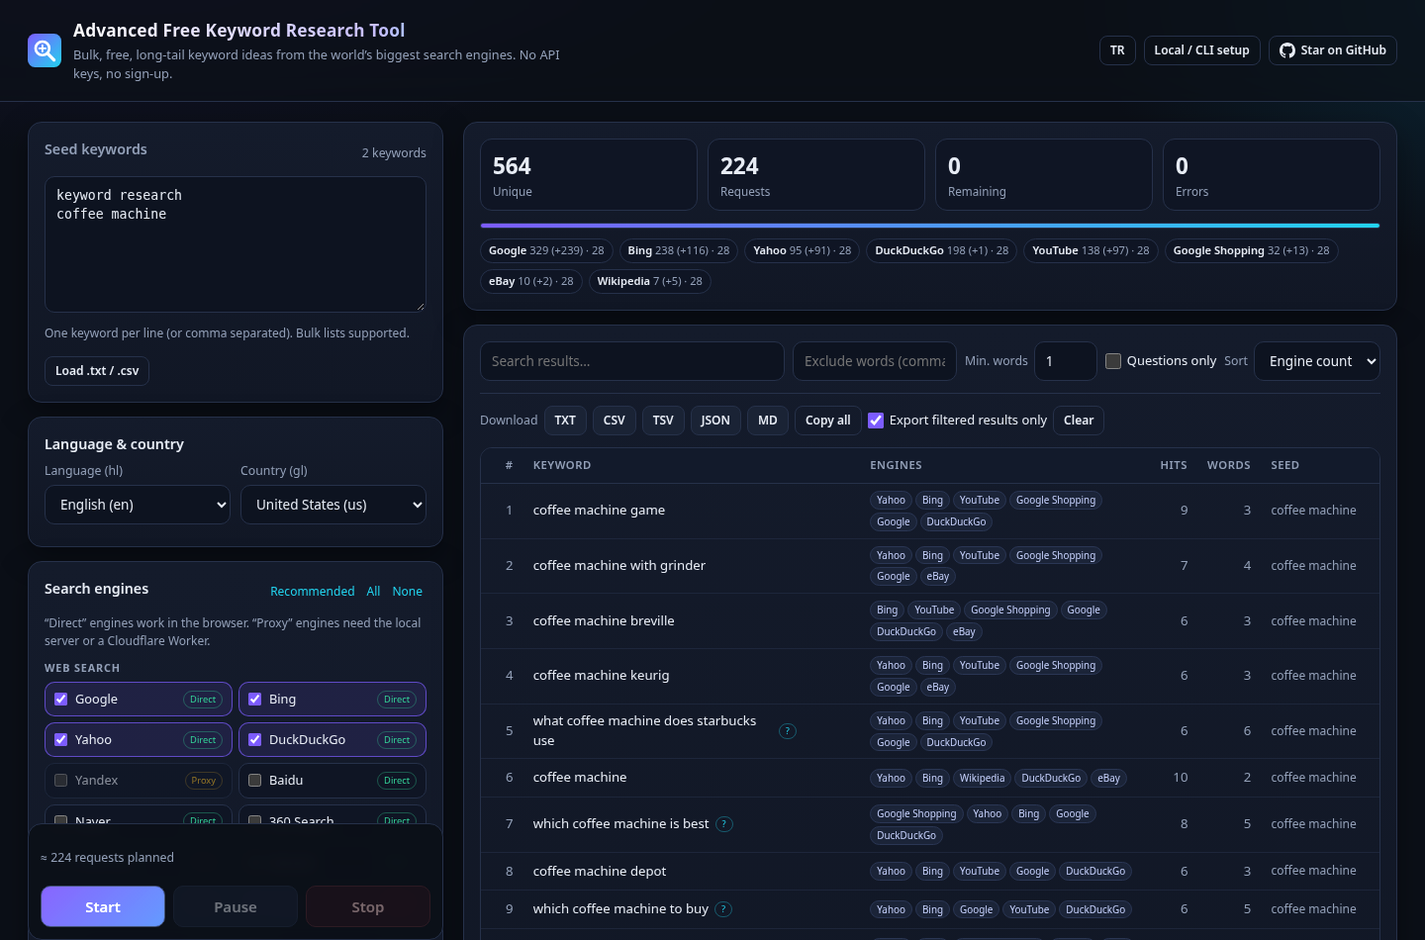
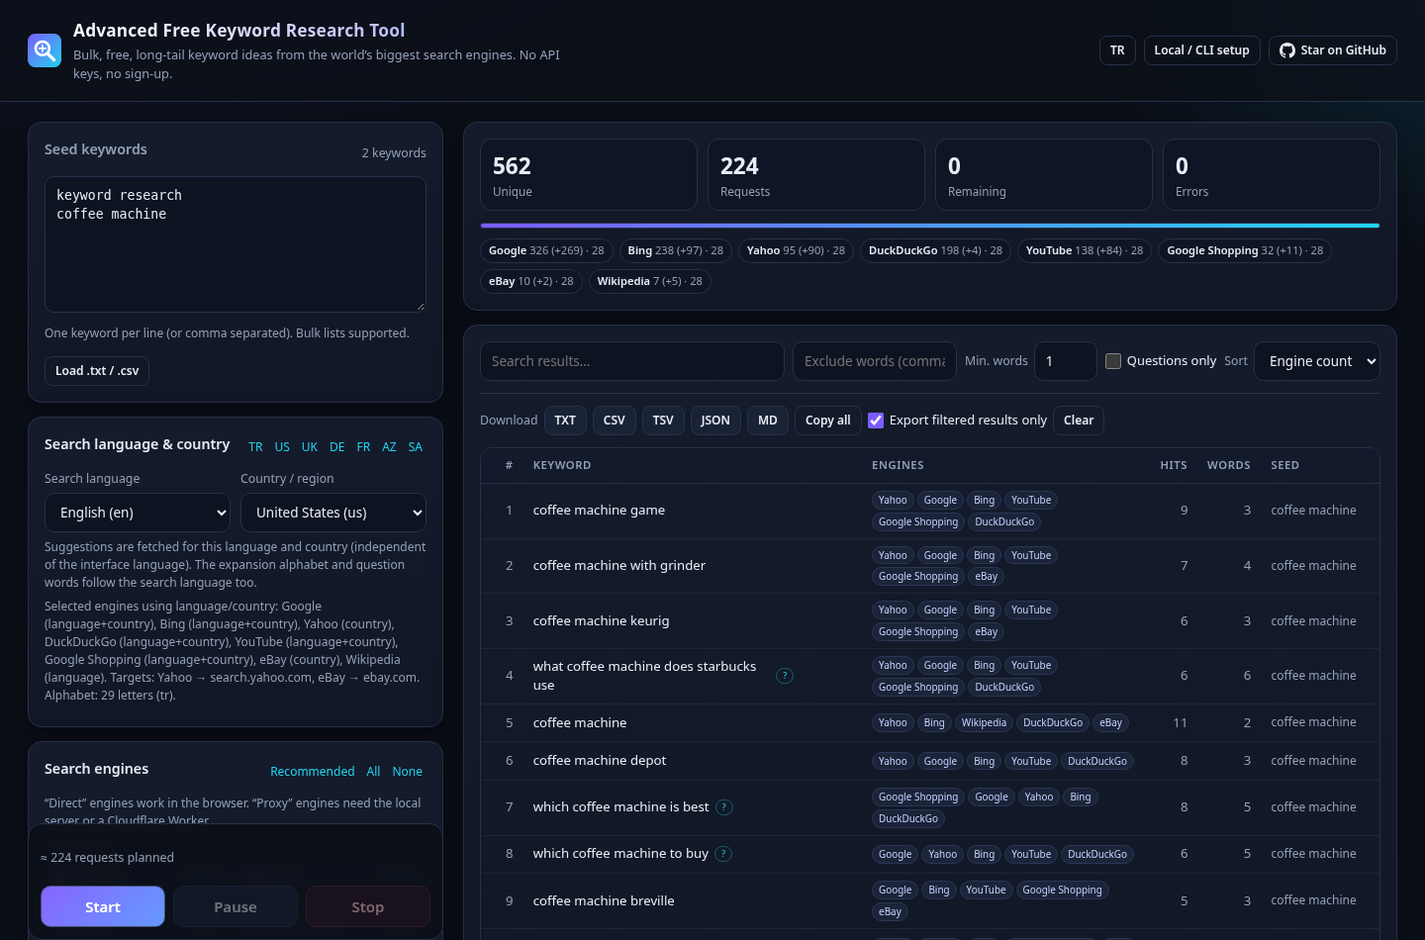
docs: language & country guide, security notes, audit report, refreshed screenshots

diff --git a/docs/AUDIT.md b/docs/AUDIT.md
@@ -1,0 +1,68 @@
+# Pre-release audit — 2026-10-09
+
+Full review of the code, UX, docs, endpoints, proxy security and tests before the first public release.
+Every item below was fixed in this release unless marked *known limitation*.
+
+## Language & country
+
+| # | Finding | Fix |
+|---|---|---|
+| L1 | CLI defaulted to `en`/`us`; the target audience is Turkey | Defaults are now `tr`/`tr` everywhere (`DEFAULT_LOCALE` in `engines.js`): web app, CLI, proxy, GitHub Action |
+| L2 | UI said "Dil (hl) / Ülke (gl)" — easy to confuse with the interface language; no explanation which engines use it | Card renamed *Arama dili ve ülkesi*, explanatory hint, quick presets (TR/US/UK/DE/FR/AZ/SA), live line showing which selected engines use language/country, which ignore it, and concrete targets (`Amazon → amazon.com.tr`, Yahoo host, Yandex `lr`, eBay site) |
+| L3 | Short lists (18 languages, 22 countries) | ~38 languages (incl. `pt-br`, `zh-cn`, `zh-tw`), ~60 countries; any valid code from a shared URL is accepted |
+| L4 | Yahoo always used the US endpoint | Regional hosts for 19 verified countries; TR (empty upstream) and unknown → US |
+| L5 | Yandex ignored the country | `lr` region id for 11 countries (TR = 983) |
+| L6 | Ecosia sent `mkt=tr-tr` style only by accident; TikTok ignored locale | Ecosia `mkt`, TikTok `region`+`language` wired and tested |
+| L7 | Region-tagged languages (`pt-br`, `zh-cn`) produced invalid values for Bing/DDG/Qwant/Swisscows/Wikipedia (`zh-cn-CN`, `pt-br.wikipedia.org`) | Engines that need a bare language use the base language |
+| L8 | No visible locale info per engine in CLI | `--list-engines` has a *locale* column (`hl+gl`, `hl`, `gl`, `fixed`) and per-engine notes; run banner prints lang/country and warns about single-market engines |
+| L9 | CLI accepted any `--lang/--country` string | Validated (`tr`, `pt-br` / two-letter country) with clear errors |
+
+## Bugs
+
+| # | Finding | Fix |
+|---|---|---|
+| B1 | `[hidden]` was overridden by `display:grid`, so the custom prefix/suffix inputs were always visible | Global `[hidden]{display:none!important}` |
+| B2 | Turkish questions were only detected when the question word came first (`nasıl kahve…`), not `kahve nasıl yapılır`, `seo nedir`, `… mı` | Separate Turkish rule: question words/particles anywhere |
+| B3 | Dedup treated `İstanbul` and `istanbul` as different (`İ`→`i̇` outside a Turkish locale) | Normalisation folds U+0307 |
+| B4 | Baidu returns invalid JS (`p:,`) for some inputs → JSONP waited 10 s and counted an error (could auto-disable Baidu) | JSONP now fails fast on `onload` without callback; Baidu treats it as "no suggestions" |
+| B5 | Engine names were truncated (`Google Sho…`) | Wider cells, names wrap |
+| B6 | JSON export meta listed engines that were skipped (no proxy) | Meta stores the engines actually used |
+| B7 | Very large result sets re-sorted every 250 ms | Adaptive render throttle (250 / 700 / 1500 ms) |
+| B8 | CLI accepted `--depth abc` etc. (NaN silently disabled recursion) | Integer range validation for all numeric flags |
+| B9 | `npm test` used a directory argument (breaks on Node ≥ 21 glob semantics) | `node --test test/*.test.js` |
+
+## Proxy & web security
+
+| # | Finding | Fix |
+|---|---|---|
+| S1 | Engine lookup used a plain object: `engine=constructor` resolved to `Object` (→ 502 instead of 400) | Null-prototype `ENGINE_MAP` + `isEngineId()`; same for Amazon/eBay/Yandex tables |
+| S2 | `hl`/`gl` were only sanitised, not validated | Strict validation → 400 |
+| S3 | Local server sent `Access-Control-Allow-Origin: *`: any website you visit could use your local proxy | CORS allow-list (`--allow-origin`, default `https://cumabozkurt.github.io`); same-origin always works; Private Network Access preflight supported |
+| S4 | Malformed URL encoding returned 500 | 400; NUL bytes rejected |
+| S5 | Unbounded upstream response size | 2 MB cap |
+| S6 | No security headers | `nosniff`, `Referrer-Policy: no-referrer`, `X-Frame-Options: DENY` |
+| S7 | JSONP lets engine hosts run script in the page | Strict CSP: scripts only from self + the 8 fixed JSONP hosts, no inline script, `object-src 'none'`, `form-action 'none'`; page stores nothing sensitive |
+| S8 | Warning missing when binding to a public interface | Server prints a warning for non-loopback hosts |
+| S9 | **Found in browser testing:** the proxy's per-IP limit (120/min) throttled the user's *own* browser when 5+ proxy engines ran together → HTTP 429 → engines auto-disabled | Local server exempts loopback clients; limit raised to 1500/min (Worker 1200/min); the miner now backs off ≥5 s on 429 instead of hammering |
+
+Verified: path traversal (`/%2e%2e/…`) → 404, unknown engines → 400, evil origin gets no CORS header, all covered by `test/cli-server.test.js`.
+
+## Endpoints (re-verified 2026-10-09, server + headless Chrome with CSP)
+
+- 24/25 engines return suggestions from Node; Brave answers 429 to non-browser clients (*experimental*, documented).
+- Browser (static host, CSP active): all 14 direct engines OK for `tr/tr` and `de/de` (incl. Yahoo regional JSONP).
+- Through the local proxy: Yandex, Amazon (amazon.com.tr), Ecosia, Qwant, Swisscows, TikTok, Walmart, Google Scholar, Sogou OK.
+
+## Tests
+
+19 → **33** tests: locale wiring for every locale-aware engine, Yahoo/Amazon/eBay fallbacks, prototype-key safety,
+locale validation, alphabet selection, Turkish question detection and `İ` folding, CLI help/validation, server static/traversal/CORS/PNA, proxy `hl/gl` validation.
+
+## Known limitations
+
+- Unofficial endpoints can change without notice — weekly *Endpoint health* workflow + `npm run check`.
+- DuckDuckGo's fixed JSONP callback name means a very late (timed-out) response could be attributed to the next DDG query.
+- Cloudflare Workers may not support `TextDecoder('gbk')`; Sogou via the Worker can return garbled text (works via local server/CLI).
+- Some engines rate-limit bursts from one IP (seen: Ecosia HTTP 503 after a few hundred requests in testing). The miner backs off on 429/503 and disables an engine after 6 consecutive failures; raise the delay for long runs.
+- Single-market engines (Baidu, 360, Sogou, Quark, Naver, Seznam, Walmart) ignore language/country by design.
+- No search volume / CPC data (would need paid APIs).

diff --git a/README.md b/README.md
@@ -8,7 +8,7 @@
 
 Google · Bing · YouTube · Yahoo · DuckDuckGo · Yandex · Baidu · Naver · Amazon · eBay · Walmart · TikTok · Wikipedia · Ecosia · Qwant · Brave · Seznam · 360 · Sogou · Quark · Swisscows · Google Images / News / Shopping / Scholar
 
-[**▶ Open the web app**](https://cumabozkurt.github.io/advanced-free-keyword-research-tool/) · [Türkçe](README.tr.md) · [Research](RESEARCH.md) · [Endpoints](docs/ENDPOINTS.md)
+[**▶ Open the web app**](https://cumabozkurt.github.io/advanced-free-keyword-research-tool/) · [Türkçe](README.tr.md) · [Research](RESEARCH.md) · [Endpoints](docs/ENDPOINTS.md) · [Audit](docs/AUDIT.md)
 
 ![Screenshot](docs/screenshots/app-en-desktop.png)
 
@@ -24,7 +24,7 @@ Google · Bing · YouTube · Yahoo · DuckDuckGo · Yandex · Baidu · Naver · 
 - **Filter & sort** — search, exclude words, min. words, questions only
 - **Exports** — TXT, CSV (UTF-8 BOM for Excel, formula-injection safe), TSV, JSON, Markdown, copy to clipboard
 - **Polite by design** — per-engine delay, concurrency limit, max requests, pause / resume / stop, auto-disable failing engines
-- **Language & country** targeting (`hl` / `gl`), 14 Amazon marketplaces, eBay sites
+- **Search language & country** (default 🇹🇷 `tr` / `tr`) wired into every engine that supports it — see [Language & country](#language--country)
 - **Turkish & English UI**, dark theme, keyboard accessible, mobile friendly, settings saved locally
 - **Zero dependencies, no build step** — plain ES modules shared by browser and Node
 
@@ -51,9 +51,10 @@ The app detects the built-in proxy automatically and unlocks every engine.
 ### 3. Command line
 
 ```bash
-node bin/cli.js "seo tools"                                   # Google, Bing, Yahoo, DDG, YouTube… → stdout
-node bin/cli.js -f seeds.txt -e all -x alpha,questions -d 1 -o out.csv -o out.txt
-node bin/cli.js "kahve makinesi" -l tr -c tr -e google,yandex,amazon,youtube -o kahve.json
+node bin/cli.js "kahve makinesi"                              # defaults: Turkish / Türkiye → stdout
+node bin/cli.js "seo tools" -l en -c us                       # English / United States
+node bin/cli.js -f seeds.txt -e all -x alpha,questions -d 1 -l de -c de -o out.csv -o out.txt
+node bin/cli.js "kahve makinesi" -e google,yandex,amazon,youtube -o kahve.json   # amazon.com.tr
 cat seeds.txt | node bin/cli.js -e web -x none --format tsv > out.tsv
 node bin/cli.js --list-engines
 node bin/cli.js --help
@@ -73,6 +74,34 @@ cd proxy && npx wrangler deploy      # Cloudflare Workers free tier
 ```
 
 Paste the worker URL into **Options → Proxy URL** in the app. Set `ALLOWED_ORIGINS` in `proxy/wrangler.toml` to your Pages origin.
+
+You can also point the Pages app at your **local** server (`http://localhost:8787`). By default the local server only accepts
+cross-origin calls from `https://cumabozkurt.github.io`; for a fork use `npm start -- --allow-origin https://<you>.github.io`.
+
+## Language & country
+
+Suggestions differ a lot per market, so every search has a **search language** (`hl`) and **country/region** (`gl`),
+independent of the interface language. Default: **Turkish / Türkiye** (`tr` / `tr`).
+
+- **Web app:** *Search language & country* card with ~38 languages, ~60 countries and quick presets (TR, US, UK, DE, FR, AZ, SA). A live line shows which selected engines use the locale and where they point (e.g. `Amazon → amazon.com.tr`). Shareable via `?hl=tr&gl=tr`.
+- **CLI:** `-l/--lang <hl>` and `-c/--country <gl>` (validated ISO codes). `--list-engines` shows each engine's locale support.
+- **GitHub Action:** `lang` / `country` inputs (default `tr` / `tr`).
+- The expansion alphabet and question words follow the search language (Turkish `ç ğ ı ö ş ü`, Azerbaijani `ə`, Polish, Ukrainian, Russian, German, Spanish…).
+
+| Engine | What `hl` / `gl` control |
+|---|---|
+| Google, YouTube, Images, News, Shopping | `hl` + `gl` |
+| Google Scholar | `hl` |
+| Bing | market `mkt={hl}-{GL}` |
+| DuckDuckGo | region `kl={gl}-{hl}` (gb → `uk`) |
+| Yahoo | regional host for 19 countries (uk, de, fr, es, it, ca, au, in, br, mx, nl, ar, tw, hk, sg, ph, id, vn, th); others (incl. TR, which returns nothing) → US |
+| Yandex | `uil={hl}` + region `lr` (tr, ru, ua, by, kz, uz, az, us, de, gb, fr) |
+| Ecosia | `mkt={hl}-{gl}` · Qwant `locale={hl}_{GL}` · Swisscows `locale={hl}-{GL}` · Brave `country` |
+| TikTok | `region={GL}&language={hl}` |
+| Amazon | marketplace by country: us, gb, de, fr, it, es, **tr**, jp, ca, in, br, mx, au, nl (others → amazon.com) |
+| eBay | site by country: us, ca, gb, au, at, fr, de, it, nl, es, ch, ie, pl (others → ebay.com) |
+| Wikipedia | `{hl}.wikipedia.org` |
+| Baidu, 360, Sogou, Quark (CN) · Naver (KR) · Seznam (CZ) · Walmart (US) | single market — locale ignored |
 
 ## Engines
 
@@ -108,12 +137,21 @@ The same `engines.js` and `miner.js` run in the browser, the CLI, the server and
 ## Development
 
 ```bash
-npm test        # unit tests (node:test, no deps)
+npm test        # 33 tests (node:test, no deps): parsers, locale wiring, miner, exports, proxy, CLI, server
 npm run check   # live endpoint check
 npm start       # local server
 ```
 
 Adding an engine = one object in `web/js/engines.js` (+ a parser test). See [CONTRIBUTING.md](CONTRIBUTING.md).
+
+## Security notes
+
+- The web app uses a strict **Content-Security-Policy**: scripts only from the app itself and the fixed JSONP engine hosts; no inline scripts.
+  JSONP still means those hosts' responses run as script on the page, which is why the page stores nothing sensitive (only your settings in `localStorage`).
+- All engine output is rendered with `textContent` (no HTML injection). CSV exports are protected against spreadsheet formula injection.
+- The proxy (local server / Worker) is **not an open proxy**: engine ids are allow-listed, upstream URLs are built server-side,
+  `hl`/`gl` are validated, queries are length-limited, responses are size-limited (2 MB), per-IP rate limited and cached.
+- The local server binds to `127.0.0.1` by default and only allows CORS from the configured origins (`--allow-origin`).
 
 ## Responsible use
 

diff --git a/README.tr.md b/README.tr.md
@@ -8,7 +8,7 @@
 
 Google · Bing · YouTube · Yahoo · DuckDuckGo · Yandex · Baidu · Naver · Amazon · eBay · Walmart · TikTok · Wikipedia · Ecosia · Qwant · Brave · Seznam · 360 · Sogou · Quark · Swisscows · Google Görseller / Haberler / Alışveriş / Akademik
 
-[**▶ Web uygulamasını aç**](https://cumabozkurt.github.io/advanced-free-keyword-research-tool/) · [English](README.md) · [Araştırma](RESEARCH.md) · [Uç noktalar](docs/ENDPOINTS.md)
+[**▶ Web uygulamasını aç**](https://cumabozkurt.github.io/advanced-free-keyword-research-tool/) · [English](README.md) · [Araştırma](RESEARCH.md) · [Uç noktalar](docs/ENDPOINTS.md) · [Denetim](docs/AUDIT.md)
 
 ![Ekran görüntüsü](docs/screenshots/app-tr-desktop.png)
 
@@ -24,7 +24,7 @@ Google · Bing · YouTube · Yahoo · DuckDuckGo · Yandex · Baidu · Naver · 
 - **Filtrele & sırala** — arama, hariç tutulan kelimeler, minimum kelime, sadece sorular
 - **Dışa aktarma** — TXT, CSV (Excel için UTF-8 BOM, formül enjeksiyonuna karşı korumalı), TSV, JSON, Markdown, panoya kopyala
 - **Nazik tasarım** — motor başına bekleme, paralellik sınırı, en fazla istek sayısı, duraklat / devam / durdur, hata veren motoru otomatik kapatma
-- **Dil ve ülke** hedefleme (`hl` / `gl`), 14 Amazon pazaryeri, eBay siteleri
+- **Arama dili ve ülkesi** (varsayılan 🇹🇷 `tr` / `tr`) destekleyen her motora iletilir — bkz. [Dil ve ülke](#dil-ve-ülke)
 - **Türkçe & İngilizce arayüz**, koyu tema, klavye erişilebilir, mobil uyumlu, ayarlar tarayıcıda saklanır
 - **Sıfır bağımlılık, derleme yok** — tarayıcı ve Node aynı ES modüllerini kullanır
 
@@ -50,9 +50,10 @@ Uygulama yerleşik proxy'yi otomatik algılar ve tüm motorları açar.
 ### 3. Komut satırı (CLI)
 
 ```bash
-node bin/cli.js "seo araçları" -l tr -c tr
-node bin/cli.js -f kelimeler.txt -e all -x alpha,questions -d 1 -l tr -c tr -o sonuc.csv -o sonuc.txt
-node bin/cli.js "kahve makinesi" -l tr -c tr -e google,yandex,amazon,youtube -o kahve.json
+node bin/cli.js "seo araçları"                                # varsayılan: Türkçe / Türkiye
+node bin/cli.js "seo tools" -l en -c us                       # İngilizce / ABD
+node bin/cli.js -f kelimeler.txt -e all -x alpha,questions -d 1 -o sonuc.csv -o sonuc.txt
+node bin/cli.js "kahve makinesi" -e google,yandex,amazon,youtube -o kahve.json   # amazon.com.tr
 cat kelimeler.txt | node bin/cli.js -e web -x none --format tsv > sonuc.tsv
 node bin/cli.js --list-engines
 node bin/cli.js --help
@@ -71,6 +72,33 @@ cd proxy && npx wrangler deploy      # Cloudflare Workers ücretsiz katman
 
 Worker adresini uygulamada **Seçenekler → Proxy URL** alanına yapıştırın. `proxy/wrangler.toml` içinde `ALLOWED_ORIGINS` değerini Pages adresiniz yapın.
 
+Pages uygulamasını **yerel** sunucunuza da bağlayabilirsiniz (`http://localhost:8787`). Yerel sunucu varsayılan olarak yalnızca
+`https://cumabozkurt.github.io` kaynağından gelen çağrılara izin verir; fork için `npm start -- --allow-origin https://<siz>.github.io`.
+
+## Dil ve ülke
+
+Öneriler pazara göre çok değişir; bu yüzden her aramanın arayüz dilinden bağımsız bir **arama dili** (`hl`) ve **ülke/bölgesi** (`gl`) vardır.
+Varsayılan: **Türkçe / Türkiye** (`tr` / `tr`).
+
+- **Web uygulaması:** *Arama dili ve ülkesi* kartı — ~38 dil, ~60 ülke ve hızlı ön ayarlar (TR, US, UK, DE, FR, AZ, SA). Canlı bilgi satırı, seçili motorlardan hangilerinin dil/ülkeyi kullandığını ve nereye gittiğini gösterir (ör. `Amazon → amazon.com.tr`). `?hl=tr&gl=tr` ile paylaşılabilir.
+- **CLI:** `-l/--lang <hl>` ve `-c/--country <gl>` (ISO kodları doğrulanır). `--list-engines` her motorun dil/ülke desteğini gösterir.
+- **GitHub Action:** `lang` / `country` girdileri (varsayılan `tr` / `tr`).
+- Genişletme alfabesi ve soru kalıpları arama diline göre seçilir (Türkçe `ç ğ ı ö ş ü`, Azerice `ə`, Lehçe, Ukraynaca, Rusça, Almanca, İspanyolca…).
+
+| Motor | `hl` / `gl` neyi belirler |
+|---|---|
+| Google, YouTube, Görseller, Haberler, Alışveriş | `hl` + `gl` |
+| Google Scholar | `hl` |
+| Bing | pazar `mkt={hl}-{GL}` |
+| DuckDuckGo | bölge `kl={gl}-{hl}` |
+| Yahoo | 19 ülke için bölgesel sunucu; diğerleri (TR dahil — TR uç noktası boş döner) → ABD |
+| Yandex | `uil={hl}` + bölge `lr` (tr, ru, ua, by, kz, uz, az, us, de, gb, fr) |
+| Ecosia `mkt` · Qwant `locale` · Swisscows `locale` · Brave `country` · TikTok `region`+`language` | dil/ülke |
+| Amazon | ülkeye göre pazaryeri: us, gb, de, fr, it, es, **tr**, jp, ca, in, br, mx, au, nl (diğerleri → amazon.com) |
+| eBay | ülkeye göre site (diğerleri → ebay.com) |
+| Wikipedia | `{hl}.wikipedia.org` |
+| Baidu, 360, Sogou, Quark (CN) · Naver (KR) · Seznam (CZ) · Walmart (US) | tek pazar — dil/ülke yok sayılır |
+
 ## Motorlar
 
 | | Motorlar |
@@ -87,12 +115,20 @@ Aynı `web/js/engines.js` (motor kayıtları) ve `web/js/miner.js` (kuyruk, hız
 ## Geliştirme
 
 ```bash
-npm test        # birim testleri (bağımlılık yok)
+npm test        # 33 test (bağımlılık yok): ayrıştırıcılar, dil/ülke, kuyruk, dışa aktarma, proxy, CLI, sunucu
 npm run check   # canlı uç nokta kontrolü
 npm start       # yerel sunucu
 ```
 
 Yeni motor eklemek = `web/js/engines.js` içine bir nesne (+ bir ayrıştırıcı testi). Bkz. [CONTRIBUTING.md](CONTRIBUTING.md).
+
+## Güvenlik notları
+
+- Web uygulaması katı bir **Content-Security-Policy** kullanır: betikler yalnızca uygulamanın kendisinden ve sabit JSONP motor sunucularından yüklenir.
+- Tüm motor çıktıları `textContent` ile gösterilir (HTML enjeksiyonu yok). CSV dışa aktarımı formül enjeksiyonuna karşı korumalıdır.
+- Proxy (yerel sunucu / Worker) **açık proxy değildir**: motorlar izin listesindedir, hedef URL sunucuda oluşturulur, `hl`/`gl` doğrulanır,
+  sorgu uzunluğu ve yanıt boyutu (2 MB) sınırlıdır, IP başına hız sınırı ve önbellek vardır.
+- Yerel sunucu varsayılan olarak `127.0.0.1` adresini dinler ve yalnızca izin verilen kaynaklara CORS açar (`--allow-origin`).
 
 ## Sorumlu kullanım
 

diff --git a/docs/ENDPOINTS.md b/docs/ENDPOINTS.md
@@ -16,25 +16,25 @@ The CLI, local server and GitHub Action always use plain HTTP, so **every** engi
 | Google News (`google-news`) | jsonp | same + `ds=n` | OpenSearch | |
 | Google Shopping (`google-shopping`) | jsonp | same + `ds=sh` | OpenSearch | Fewer results. |
 | Google Scholar (`google-scholar`) | proxy | `https://scholar.google.com/scholar_complete?hl={hl}&q={q}` | `{l:[…]}` | |
-| Bing (`bing`) | jsonp `JsonCallback` (+`JsonType=callback`) | `https://api.bing.com/osjson.aspx?market={hl}-{GL}&query={q}` | OpenSearch | Up to ~20 results. |
-| Yahoo (`yahoo`) | jsonp `callback` | `https://search.yahoo.com/sugg/gossip/gossip-us-ura/?output=sd1&nresults=10&command={q}` | `{r:[{k}]}` | Bing-backed. |
+| Bing (`bing`) | jsonp `JsonCallback` (+`JsonType=callback`) | `https://api.bing.com/osjson.aspx?mkt={hl}-{GL}&query={q}` | OpenSearch | Up to ~20 results. `mkt` and `market` both work. |
+| Yahoo (`yahoo`) | jsonp `callback` | `https://{cc}.search.yahoo.com/sugg/gossip/gossip-{cc}-ura/?output=sd1&nresults=10&command={q}` | `{r:[{k}]}` | Bing-backed. Regional hosts verified for uk, de, fr, es, it, ca, au, in, br, mx, nl, ar, tw, hk, sg, ph, id, vn, th; `tr` returns empty, `jp`/`my` redirect → US host used. |
 | DuckDuckGo (`duckduckgo`) | jsonp, **fixed** callback `autocompleteCallback` | `https://duckduckgo.com/ac/?kl={gl}-{hl}&q={q}` | `[{phrase}]` | Any other callback name returns plain JSON → requests are serialised in the browser. |
-| Yandex (`yandex`) | proxy | `https://suggest.yandex.com/suggest-ff.cgi?uil={hl}&part={q}` | OpenSearch | JSONP (`suggest-ya.cgi?callback=`) exists but Chrome blocks it (ORB: `content-disposition: attachment` + `nosniff`). |
-| Baidu (`baidu`) | jsonp `cb` (`suggestion.baidu.com/su?ie=utf-8`) | `https://www.baidu.com/sugrec?ie=utf-8&prod=pc&wd={q}` | `{g:[{q}]}` (JSONP: `{s:[…]}`) | JSONP body is a JS object (unquoted keys) → HTTP uses `sugrec` JSON. |
+| Yandex (`yandex`) | proxy | `https://suggest.yandex.com/suggest-ff.cgi?uil={hl}&lr={region}&part={q}` | OpenSearch | JSONP (`suggest-ya.cgi?callback=`) exists but Chrome blocks it (ORB: `content-disposition: attachment` + `nosniff`). |
+| Baidu (`baidu`) | jsonp `cb` (`suggestion.baidu.com/su?ie=utf-8`) | `https://www.baidu.com/sugrec?ie=utf-8&prod=pc&wd={q}` | `{g:[{q}]}` (JSONP: `{s:[…]}`) | JSONP body is a JS object (unquoted keys) → HTTP uses `sugrec` JSON. For some inputs Baidu returns invalid JS (`p:,`) — treated as empty. |
 | 360 Search (`so360`) | jsonp `callback` | `https://sug.so.360.cn/suggest?encodein=utf-8&encodeout=utf-8&format=json&word={q}` | `{result:[{word}]}` | |
 | Sogou (`sogou`) | proxy | `https://sor.html5.qq.com/api/getsug?key={q}` | `window.sogou.sug([q,[…]],-1)` | GBK encoded, fixed callback. |
 | Quark / Shenma (`quark`) | proxy | `https://sugs.m.sm.cn/web?q={q}` | `{r:[{w}]}` | |
 | Naver (`naver`) | jsonp `_callback` | `https://ac.search.naver.com/nx/ac?…&r_format=json&q={q}` | `{items:[[[s,…]]]}` | Korean queries only. |
 | Seznam (`seznam`) | cors (origin reflected) | `https://suggest.seznam.cz/fulltext/cs?count=10&phrase={q}` | `{result:[{text:[{text}]}]}` | Czech. |
 | Swisscows (`swisscows`) | proxy | `https://api.swisscows.com/suggest?locale={hl}-{GL}&query={q}` | `[s…]` | Sends `ACAO:*` to curl but not to real browsers. |
-| Brave (`brave`) | proxy | `https://search.brave.com/api/suggest?rich=false&q={q}` | OpenSearch | ⚠ experimental: often HTTP 429 for non-browser clients. CORS only for `brave.com`. |
-| Ecosia (`ecosia`) | proxy | `https://ac.ecosia.org/?type=list&q={q}` | OpenSearch | Bing/Google backed. |
+| Brave (`brave`) | proxy | `https://search.brave.com/api/suggest?rich=false&country={gl}&q={q}` | OpenSearch | ⚠ experimental: often HTTP 429 for non-browser clients. CORS only for `brave.com`. |
+| Ecosia (`ecosia`) | proxy | `https://ac.ecosia.org/?type=list&mkt={hl}-{gl}&q={q}` | OpenSearch | Bing/Google backed. |
 | Qwant (`qwant`) | proxy | `https://api.qwant.com/v3/suggest?locale={hl}_{GL}&q={q}` | `{data:{items:[{value}]}}` | Bing backed. |
 | Amazon (`amazon`) | proxy | `https://completion.{amazon-domain}/api/2017/suggestions?mid={marketplace}&alias=aps&prefix={q}` | `{suggestions:[{value}]}` | 14 marketplaces mapped by country (`us, gb, de, fr, it, es, tr, jp, ca, in, br, mx, au, nl`). Old `/search/complete` + JSONP is **dead (404)**. |
 | eBay (`ebay`) | cors (`ACAO:*`) | `https://autosug.ebaystatic.com/autosug?_jgr=1&sId={site}&kwd={q}` | `/**/fn({res:{sug:[…]}})` | `callback=` works but is served as `application/json` → blocked as script; CORS works. |
 | Walmart (`walmart`) | proxy | `https://www.walmart.com/typeahead/v3/complete?term={q}` | `{queries:[{displayName}]}` | US. |
 | Wikipedia (`wikipedia`) | cors (`origin=*`) | `https://{hl}.wikipedia.org/w/api.php?action=opensearch&search={q}` | OpenSearch | Article titles — useful for entities. |
-| TikTok (`tiktok`) | proxy | `https://www.tiktok.com/api/search/general/sug/?aid=1988&keyword={q}` | `{sug_list:[{content}]}` | ⚠ experimental, undocumented. |
+| TikTok (`tiktok`) | proxy | `https://www.tiktok.com/api/search/general/sug/?aid=1988&region={GL}&language={hl}&keyword={q}` | `{sug_list:[{content}]}` | ⚠ experimental, undocumented. |
 
 ## Tested and **not** usable (2026-10-09)
 

diff --git a/CHANGELOG.md b/CHANGELOG.md
@@ -2,7 +2,13 @@
 
 ## 1.0.0 — 2026-10-09
 
-- First release: 25 engines (14 browser-direct), bulk seeds, locale-aware long-tail expansion,
-  recursive mining, cross-engine de-duplication with agreement score, TXT/CSV/TSV/JSON/MD exports,
-  TR/EN UI, local server + allow-listed proxy, Cloudflare Worker, CLI, GitHub Actions
+First public release.
+
+- 25 engines (14 browser-direct), bulk seeds, locale-aware long-tail expansion, recursive mining,
+  cross-engine de-duplication with agreement score, TXT/CSV/TSV/JSON/MD exports, TR/EN UI,
+  local server + allow-listed proxy, Cloudflare Worker, CLI, GitHub Actions
   (Pages deploy, CI, "Mine keywords", weekly endpoint health).
+- Search language & country (default `tr`/`tr`) wired into Google family, Bing, Yahoo (regional hosts),
+  DuckDuckGo, Yandex (`lr`), Ecosia, Qwant, Swisscows, Brave, TikTok, Amazon (14 marketplaces), eBay, Wikipedia, Scholar.
+- Pre-release audit fixes (see docs/AUDIT.md): CSP, proxy CORS allow-list and validation, Turkish question detection,
+  `İ` normalisation, Baidu invalid-JSONP handling, hidden-field CSS bug, CLI validation, proxy self-throttling fix + 429 back-off, 33 tests.
